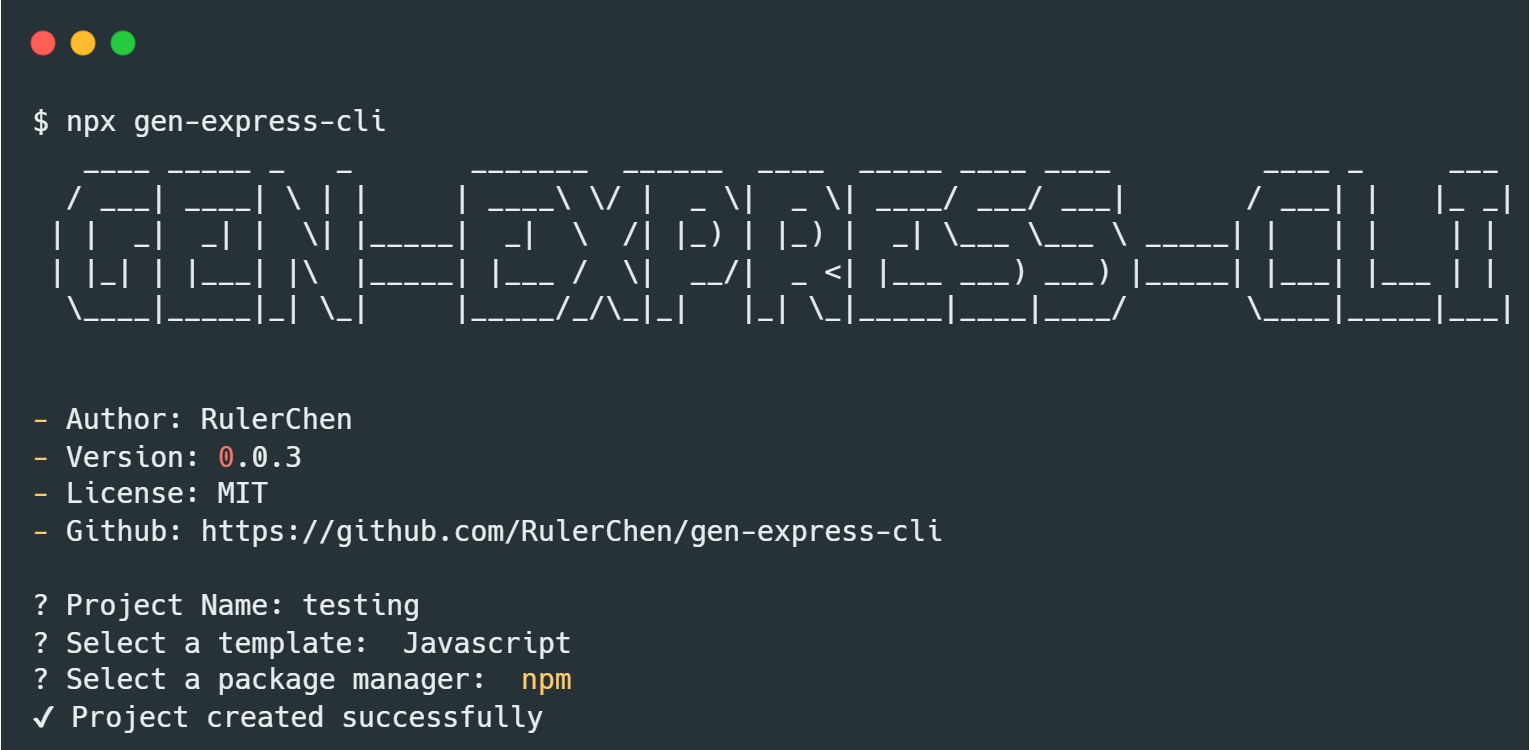
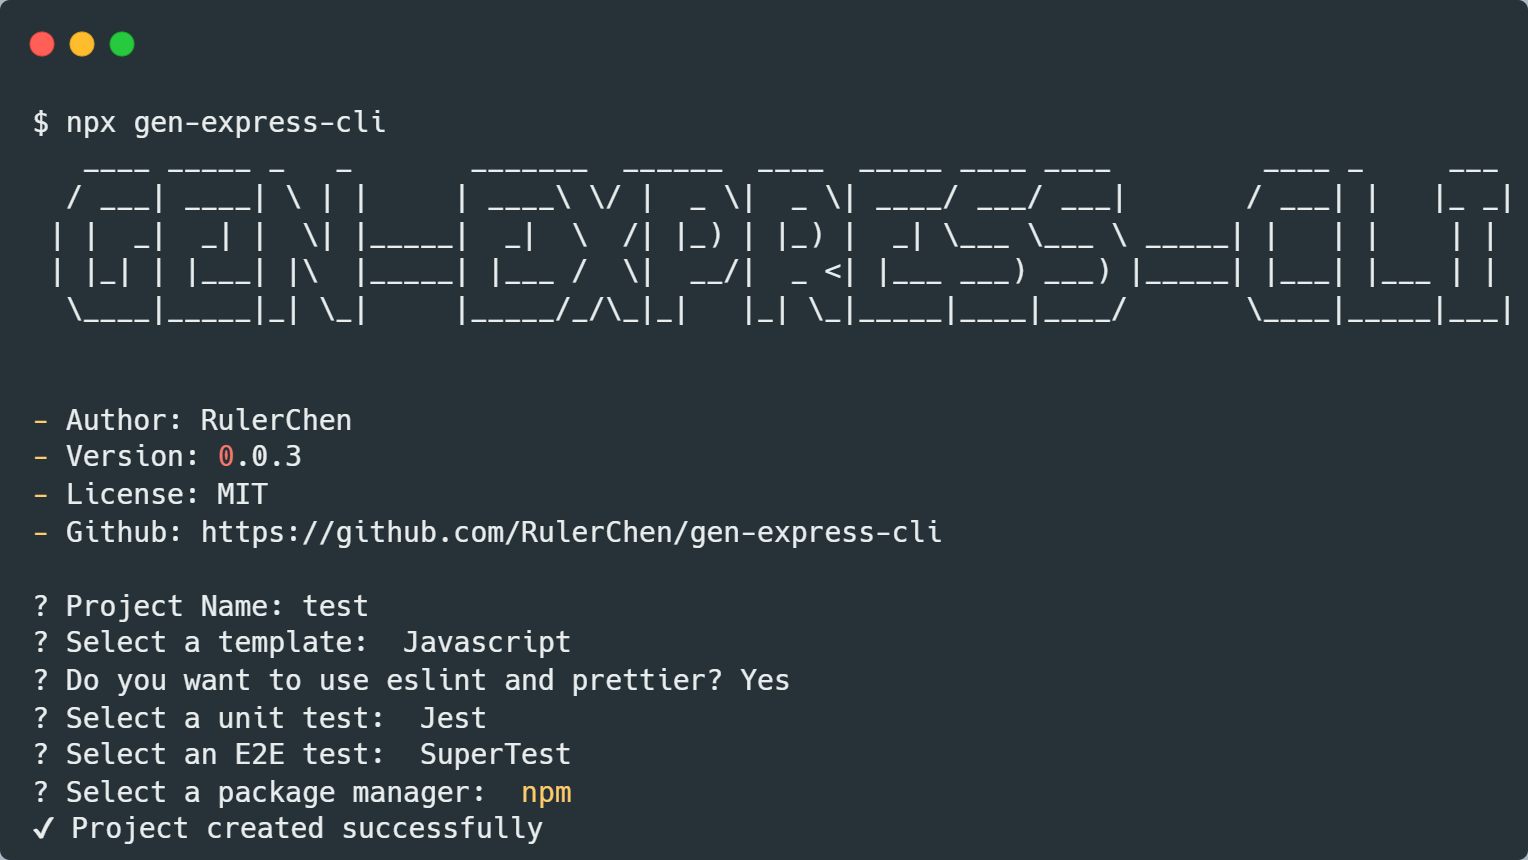
docs: remove zh_tw docs and add usage

Changed region(s): [[0.0, 0.1227, 1.0, 0.4293], [0.0, 0.46, 0.6152, 0.9813], [0.0, 0.0307, 0.0923, 0.092]]

diff --git a/README.md b/README.md
@@ -13,29 +13,47 @@
   <img alt="GitHub Repo stars" src="https://img.shields.io/github/stars/RulerChen/gen-express-cli?style=for-the-badge&logo=github">
 </div>
 
-<div align="center" style="display: flex; justify-content: center; gap: 10px;">
-
-[English](/README.md)
-[中文版本](/README.zh_TW.md)
-
-</div>
-
 ## ✨ Features
 
 - 📦 **Easy to use**
 - 📦 **TypeScript Support**
 - 📦 **ESM Support**
 - 📦 **Prettier & ESLint Support**
+- 📦 **Jest Support (Unit Test)**
+- 📦 **SuperTest Support (E2E Test)**
 
 ## 📂 Quick Start
 
 ```bash
 npx gen-express-cli <project-name>
+
+cd <project-name>
+
+npm run lint # for lint
+npm run dev # for development
+npm run build # for typescript build
+npm run start # for production
+npm run test # for unit test
+npm run test:e2e # for e2e test
 ```
 
 ## 📖 Usage
 
 ![Usage](/docs/usage.png)
+
+```bash
+npx gen-express-cli --help
+
+Usage: gen-express-cli [project-name]
+
+Options:
+  -v, --version                     output the current version
+  -t, --template <template-name>    choose express template (choices: "javascript", "typescript")
+  -l, --linter <linter-name>        choose linter (choices: "eslint", "none")
+  -u, --unit-test <unit-test-name>  choose unit test (choices: "jest", "none")
+  -e, --e2e-test <e2e-test-name>    choose e2e test (choices: "supertest", "none")
+  -h, --help                        display help for command
+```
 
 ## 📚 License
 

diff --git a/packages/README.md b/packages/README.md
@@ -13,29 +13,47 @@
   <img alt="GitHub Repo stars" src="https://img.shields.io/github/stars/RulerChen/gen-express-cli?style=for-the-badge&logo=github">
 </div>
 
-<div align="center" style="display: flex; justify-content: center; gap: 10px;">
-
-[English](/README.md)
-[中文版本](/README.zh_TW.md)
-
-</div>
-
 ## ✨ Features
 
 - 📦 **Easy to use**
 - 📦 **TypeScript Support**
 - 📦 **ESM Support**
 - 📦 **Prettier & ESLint Support**
+- 📦 **Jest Support (Unit Test)**
+- 📦 **SuperTest Support (E2E Test)**
 
 ## 📂 Quick Start
 
 ```bash
 npx gen-express-cli <project-name>
+
+cd <project-name>
+
+npm run lint # for lint
+npm run dev # for development
+npm run build # for typescript build
+npm run start # for production
+npm run test # for unit test
+npm run test:e2e # for e2e test
 ```
 
 ## 📖 Usage
 
 ![Usage](/docs/usage.png)
+
+```bash
+npx gen-express-cli --help
+
+Usage: gen-express-cli [project-name]
+
+Options:
+  -v, --version                     output the current version
+  -t, --template <template-name>    choose express template (choices: "javascript", "typescript")
+  -l, --linter <linter-name>        choose linter (choices: "eslint", "none")
+  -u, --unit-test <unit-test-name>  choose unit test (choices: "jest", "none")
+  -e, --e2e-test <e2e-test-name>    choose e2e test (choices: "supertest", "none")
+  -h, --help                        display help for command
+```
 
 ## 📚 License
 
